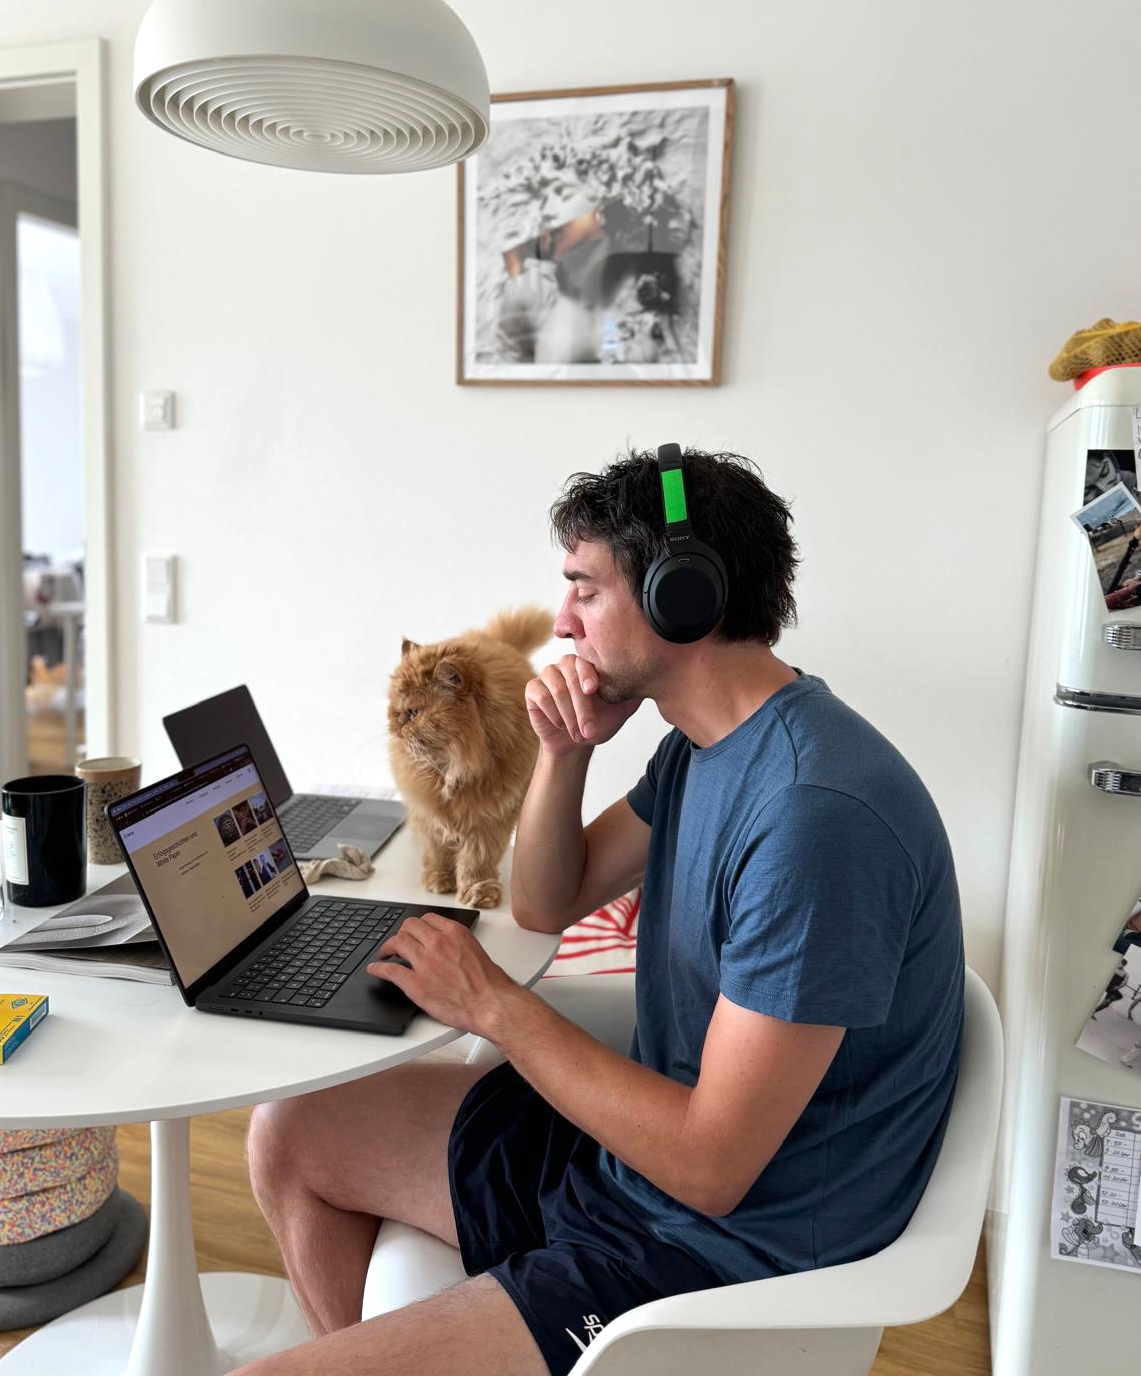
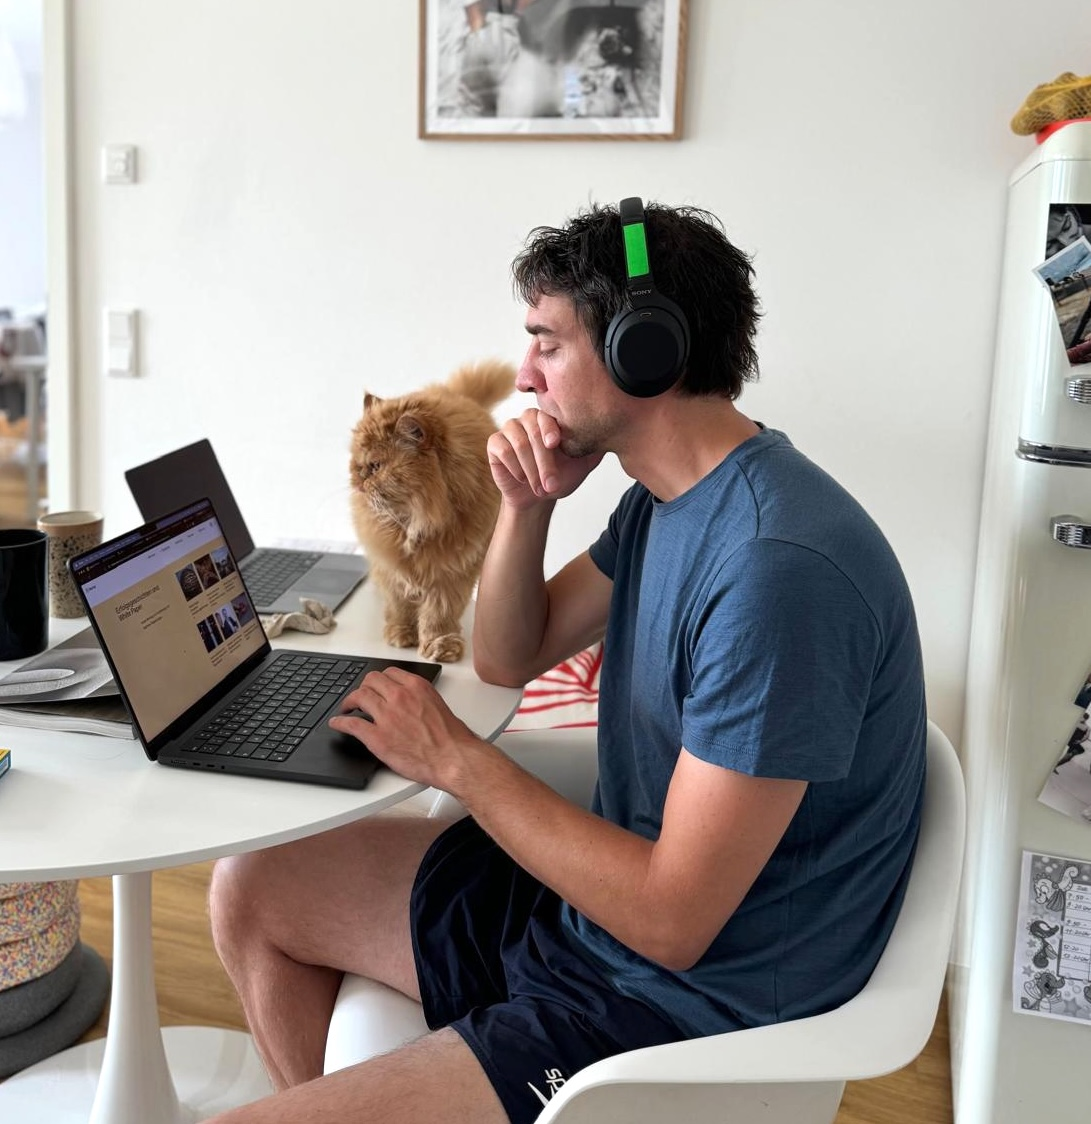
small ui tweaks

diff --git a/app/admin/new-post/page.tsx b/app/admin/new-post/page.tsx
@@ -1,0 +1,139 @@
+'use client'
+
+import { useState } from 'react'
+
+const initialState = {
+  title: '',
+  slug: '',
+  summary: '',
+  publishedAt: new Date().toISOString().slice(0, 10),
+  content: '',
+}
+
+export default function NewPostPage() {
+  const [form, setForm] = useState(initialState)
+  const [status, setStatus] = useState<string | null>(null)
+  const [isSubmitting, setIsSubmitting] = useState(false)
+
+  async function handleSubmit(event: React.FormEvent<HTMLFormElement>) {
+    event.preventDefault()
+    setStatus(null)
+    setIsSubmitting(true)
+
+    try {
+      const res = await fetch('/api/admin/new-post', {
+        method: 'POST',
+        headers: { 'Content-Type': 'application/json' },
+        body: JSON.stringify(form),
+      })
+
+      const data = await res.json()
+
+      if (!res.ok) {
+        throw new Error(data.message || 'Failed to create post')
+      }
+
+      setStatus(`Created ${data.fileName}`)
+      setForm(initialState)
+    } catch (error) {
+      setStatus(error instanceof Error ? error.message : 'Something went wrong')
+    } finally {
+      setIsSubmitting(false)
+    }
+  }
+
+  function updateField<K extends keyof typeof form>(key: K, value: string) {
+    setForm((prev) => ({ ...prev, [key]: value }))
+  }
+
+  return (
+    <section className="space-y-6">
+      <div>
+        <h1 className="text-2xl font-semibold tracking-tight">New blog post</h1>
+        <p className="text-neutral-600 dark:text-neutral-400">
+          Fill in the metadata and content, then a new .mdx file will be saved locally.
+        </p>
+      </div>
+
+      <form onSubmit={handleSubmit} className="space-y-4">
+        <div className="grid gap-4 md:grid-cols-2">
+          <label className="flex flex-col space-y-2">
+            <span className="text-sm font-medium">Title</span>
+            <input
+              type="text"
+              required
+              value={form.title}
+              onChange={(e) => updateField('title', e.target.value)}
+              className="rounded-md border border-neutral-300 bg-white p-2 text-neutral-900 shadow-sm focus:border-neutral-500 focus:outline-none dark:border-neutral-700 dark:bg-neutral-900 dark:text-neutral-100"
+              placeholder="Post title"
+            />
+          </label>
+
+          <label className="flex flex-col space-y-2">
+            <span className="text-sm font-medium">Slug (optional)</span>
+            <input
+              type="text"
+              value={form.slug}
+              onChange={(e) => updateField('slug', e.target.value)}
+              className="rounded-md border border-neutral-300 bg-white p-2 text-neutral-900 shadow-sm focus:border-neutral-500 focus:outline-none dark:border-neutral-700 dark:bg-neutral-900 dark:text-neutral-100"
+              placeholder="my-post-slug"
+            />
+            <span className="text-xs text-neutral-500">
+              If empty, it will be generated from the title.
+            </span>
+          </label>
+        </div>
+
+        <label className="flex flex-col space-y-2">
+          <span className="text-sm font-medium">Summary</span>
+          <input
+            type="text"
+            required
+            value={form.summary}
+            onChange={(e) => updateField('summary', e.target.value)}
+            className="rounded-md border border-neutral-300 bg-white p-2 text-neutral-900 shadow-sm focus:border-neutral-500 focus:outline-none dark:border-neutral-700 dark:bg-neutral-900 dark:text-neutral-100"
+            placeholder="One-line summary for lists and meta"
+          />
+        </label>
+
+        <label className="flex flex-col space-y-2 max-w-xs">
+          <span className="text-sm font-medium">Published date</span>
+          <input
+            type="date"
+            required
+            value={form.publishedAt}
+            onChange={(e) => updateField('publishedAt', e.target.value)}
+            className="rounded-md border border-neutral-300 bg-white p-2 text-neutral-900 shadow-sm focus:border-neutral-500 focus:outline-none dark:border-neutral-700 dark:bg-neutral-900 dark:text-neutral-100"
+          />
+        </label>
+
+        <label className="flex flex-col space-y-2">
+          <span className="text-sm font-medium">Content (MDX)</span>
+          <textarea
+            required
+            rows={12}
+            value={form.content}
+            onChange={(e) => updateField('content', e.target.value)}
+            className="rounded-md border border-neutral-300 bg-white p-3 text-neutral-900 shadow-sm focus:border-neutral-500 focus:outline-none dark:border-neutral-700 dark:bg-neutral-900 dark:text-neutral-100 font-mono text-sm"
+            placeholder="Write your MDX content here..."
+          />
+        </label>
+
+        <div className="flex items-center space-x-3">
+          <button
+            type="submit"
+            disabled={isSubmitting}
+            className="rounded-md bg-neutral-900 px-4 py-2 text-white transition hover:bg-neutral-800 disabled:opacity-60 dark:bg-white dark:text-black dark:hover:bg-neutral-200"
+          >
+            {isSubmitting ? 'Creating...' : 'Create post'}
+          </button>
+          {status && (
+            <span className="text-sm text-neutral-600 dark:text-neutral-300">
+              {status}
+            </span>
+          )}
+        </div>
+      </form>
+    </section>
+  )
+}

diff --git a/app/page.tsx b/app/page.tsx
@@ -24,7 +24,7 @@ export default function Page() {
        </div>           
       <br></br>
       <div className="mb-8">
-        <p>I've built products for</p>
+        <p>I built products for</p>
         <br></br>
         <ul className="text-sm text-gray-400 space-y-1">
           <li>Miele</li>
@@ -33,7 +33,6 @@ export default function Page() {
           <li>Deutsche Bahn</li>
           <li>BASF</li>
           <li>Bundesministerium der Finanzen</li>
-          <li>Züricher Kantonalbank</li>
           <li>Techniker Krankenkasse</li>
         </ul>
       </div>

diff --git a/app/components/nav.tsx b/app/components/nav.tsx
@@ -7,9 +7,6 @@ const navItems = {
   '/': {
     name: 'home',
   },
-  '/work': {
-    name: 'work',
-  },
   '/blog': {
     name: 'blog',
   },
